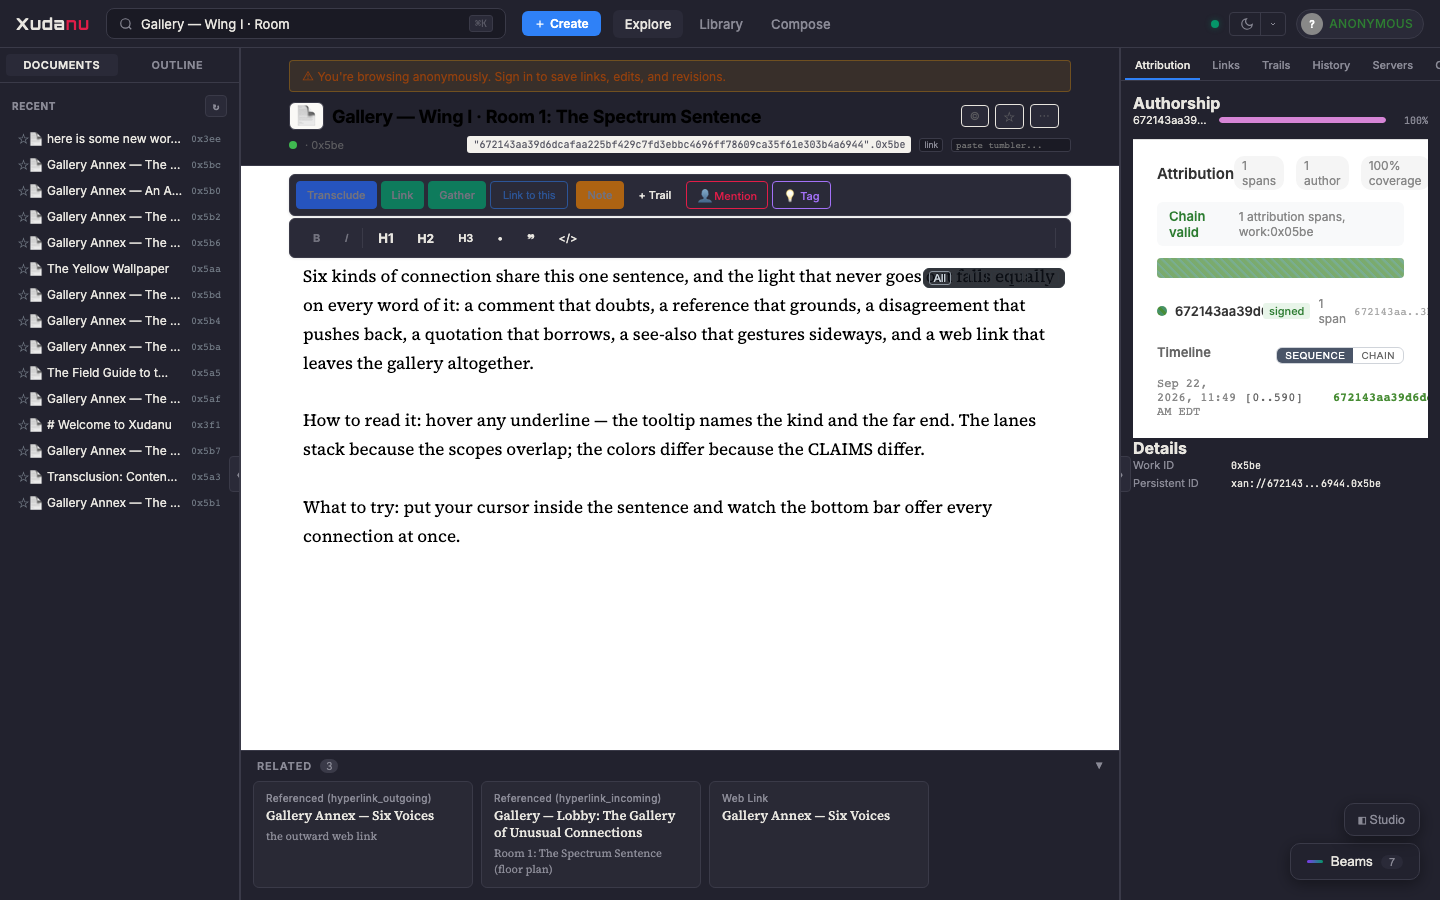
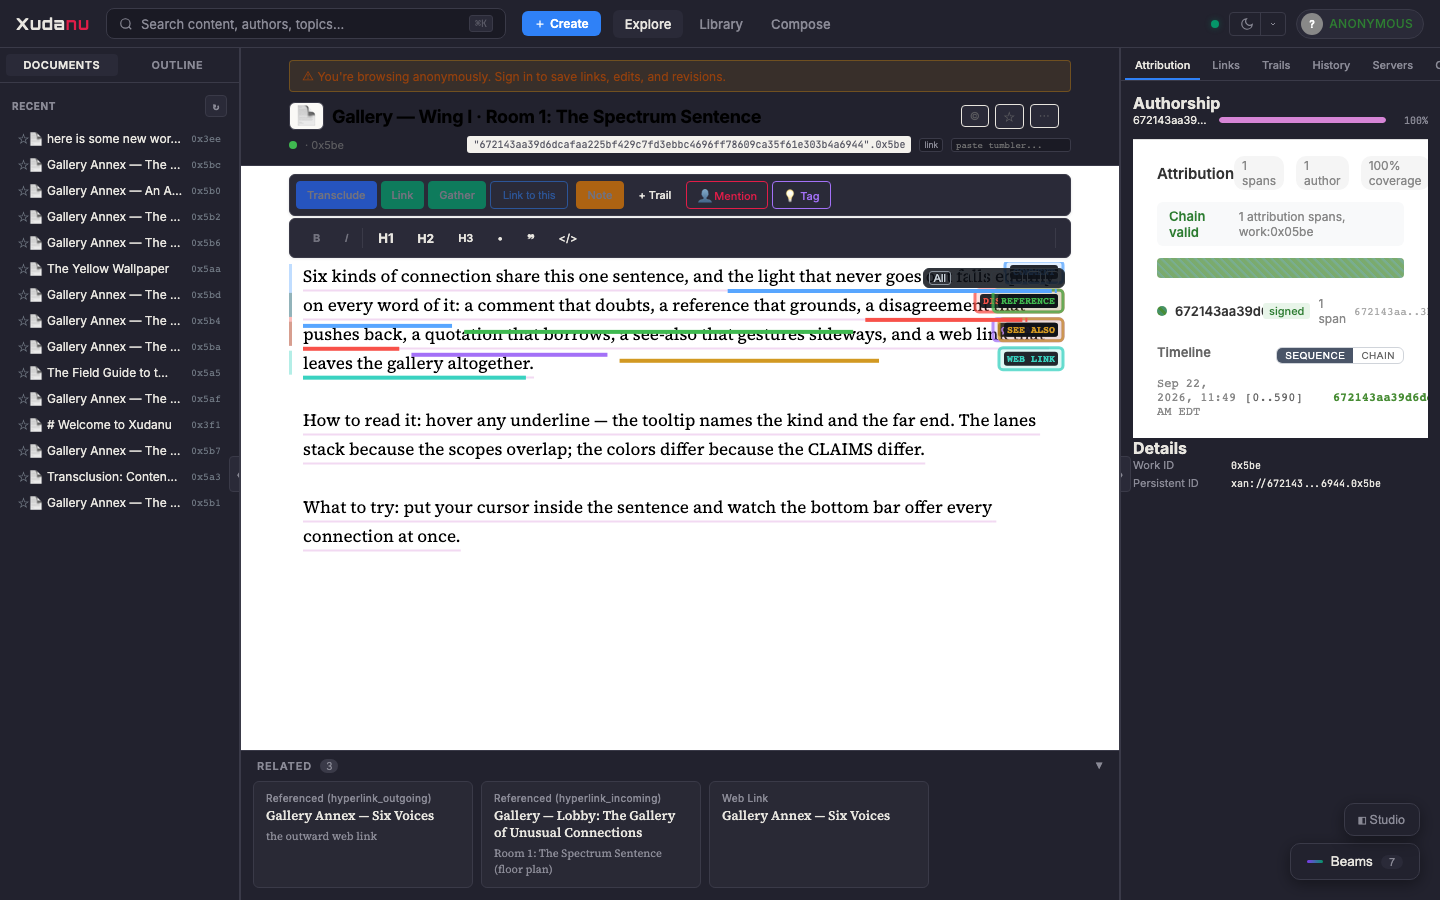
fix: reading mode rendered zero link overlays — editor root is the decoration boundary
The gallery rooms showed no link underlines anywhere (transclusions
and panel rows still worked). Traced: drawOverlay early-returned at
textLen === 0 — modelTextLength() returned 0 for plain documents.

Cause: reading mode renders the editor ROOT with
contenteditable="false". enclosingNonEditable() climbed the whole
ancestor chain, matched the root, and classified every text node as
'visible decoration — DOM-only, skip'. Model length 0 → no ribbons,
no margin bars, no pills, on every work, in every room.

Fix: the editor root is the boundary — only contenteditable=false
wrappers BELOW it (hidden marker spans, bullet glyphs) are
decorations. One-parameter change (node, root) in
enclosingNonEditable, applied to both findTextNodeAt and
modelTextLength.

Regression test: reading-mode root with contenteditable=false
still counts plain text and resolves offsets; decorations inside
still skip.

Also: loadLinks catch now console.errors the marker-build failure
(the silent catch cost an hour of archaeology today).

Re-captured all gallery screenshots — every room now draws ink
(ribbons, margin bars, end-set chips; Rooms 1-2 captured with
their density pills clicked open).

Changed region(s): [[0.1875, 0.28, 0.75, 0.4356], [0.0938, 0.0, 0.2188, 0.0311]]

diff --git a/web/app/src/components/CollaborativeEditor.tsx b/web/app/src/components/CollaborativeEditor.tsx
@@ -1099,7 +1099,7 @@ export function findTextNodeAt(root: Node, targetOffset: number): { node: Text; 
   let node: Node | null;
   while ((node = walker.nextNode())) {
     const text = node.textContent ?? "";
-    const guard = enclosingNonEditable(node);
+    const guard = enclosingNonEditable(node, root);
     if (guard) {
       if (guard.style?.display === "none") {
         // Hidden marker span: model text, consume its length.
@@ -1131,7 +1131,7 @@ export function modelTextLength(root: Node): number {
   let node: Node | null;
   while ((node = walker.nextNode())) {
     const text = node.textContent ?? "";
-    const guard = enclosingNonEditable(node);
+    const guard = enclosingNonEditable(node, root);
     if (guard) {
       if (guard.style?.display === "none") len += text.length;
       continue;
@@ -1143,9 +1143,14 @@ export function modelTextLength(root: Node): number {
   return len;
 }
 
-function enclosingNonEditable(node: Node): HTMLElement | null {
+// Nearest contenteditable="false" wrapper BELOW root (marker spans,
+// bullet glyphs). The root itself is the boundary: reading mode puts
+// contenteditable="false" ON the editor root, and that must not turn
+// the whole document into "decoration" (the gallery link-ink bug:
+// modelTextLength returned 0, drawOverlay bailed, nothing rendered).
+function enclosingNonEditable(node: Node, root: Node): HTMLElement | null {
   let n: Node | null = node;
-  while (n && n.nodeType !== Node.DOCUMENT_NODE) {
+  while (n && n !== root && n.nodeType !== Node.DOCUMENT_NODE) {
     if (n.nodeType === Node.ELEMENT_NODE) {
       const el = n as HTMLElement;
       if (el.getAttribute && el.getAttribute("contenteditable") === "false") {

diff --git a/web/app/src/__tests__/overlay-offsets.test.ts b/web/app/src/__tests__/overlay-offsets.test.ts
@@ -167,6 +167,28 @@ describe("modelTextLength", () => {
     expect(modelTextLength(root)).toBe(5);
   });
 
+  it("reading mode: contenteditable=false on the ROOT must not turn the document into decoration", () => {
+    // The gallery link-ink regression: reading mode renders the editor
+    // root itself contenteditable="false". The model walk must treat
+    // that as the boundary — plain text still counts — or modelTextLength
+    // returns 0 and drawOverlay renders nothing at all.
+    root.setAttribute("contenteditable", "false");
+    root.textContent = "The gallery lobby text, all plain, all readable.";
+    expect(modelTextLength(root)).toBe(root.textContent!.length);
+
+    const hit = findTextNodeAt(root, 4);
+    expect(hit).not.toBeNull();
+    expect(hit!.offset).toBe(4);
+
+    // Decorations INSIDE still skip: a bullet under a false root.
+    root.textContent = "";
+    const item = document.createElement("span");
+    item.textContent = "item";
+    root.appendChild(spanHtml("display:inline-block", "•"));
+    root.appendChild(item);
+    expect(modelTextLength(root)).toBe(4);
+  });
+
   it("includes hidden marker text, excludes bullets and ZWSPs", () => {
     root.appendChild(spanHtml("display:none", "# "));
     const vis = document.createElement("span");

diff --git a/web/app/src/hooks/useTransclusion.ts b/web/app/src/hooks/useTransclusion.ts
@@ -329,7 +329,8 @@ export function useTransclusion(): TransclusionState {
         }
         if (stale()) return;
         setMarkers(newMarkers);
-      } catch {
+      } catch (e) {
+        console.error("[loadLinks] marker build failed:", e);
         if (stale()) return;
         setMarkers([]);
       }
